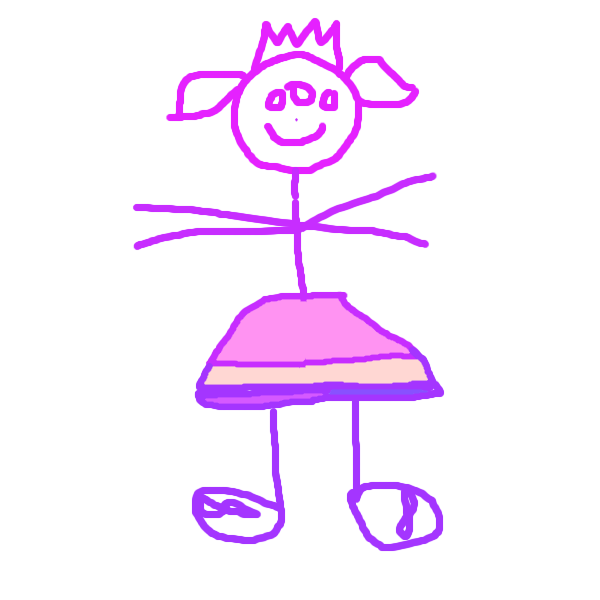
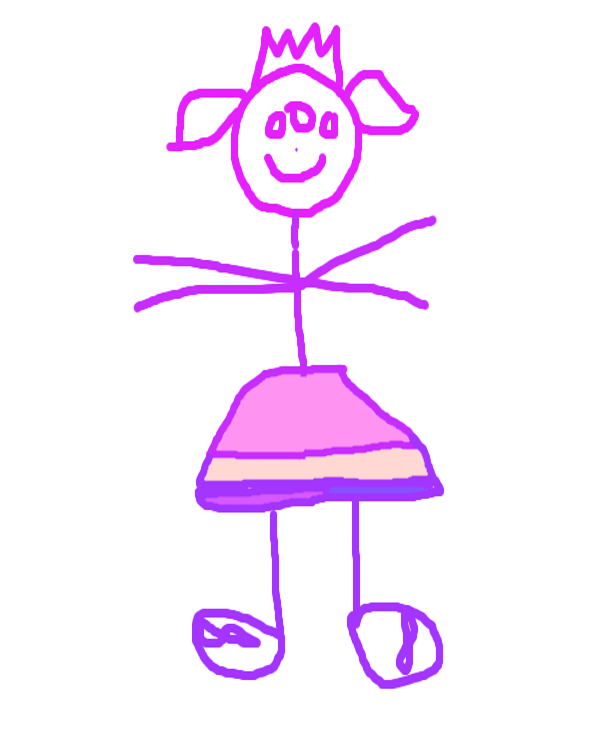
Increase Monster Height

diff --git a/scripts/scripts.js b/scripts/scripts.js
@@ -1,5 +1,5 @@
 const NUMBER_OF_IMAGES = 8;
-const SECTION_HEIGHT = 200;
+const SECTION_HEIGHT = 250;
 let canvas;
 let ctx;
 let images = [];
@@ -86,8 +86,6 @@ function drawMonster(myMonster) {
   ctx.clearRect(0, 0, canvas.width, canvas.height);
   ctx.drawImage(myMonster.head, 0, 0, canvas.width, SECTION_HEIGHT, 0, 0, canvas.width, SECTION_HEIGHT);
   ctx.drawImage(myMonster.torso, 0, SECTION_HEIGHT, canvas.width, SECTION_HEIGHT, 0, SECTION_HEIGHT, canvas.width, SECTION_HEIGHT);
-  ctx.drawImage(myMonster.legs, 0, 400, canvas.width, SECTION_HEIGHT, 0, 400, canvas.width, SECTION_HEIGHT);
+  ctx.drawImage(myMonster.legs, 0, SECTION_HEIGHT * 2, canvas.width, SECTION_HEIGHT, 0, SECTION_HEIGHT * 2, canvas.width, SECTION_HEIGHT);
+  //Reference: drawImage(image, sx, sy, sWidth, sHeight, dx, dy, dWidth, dHeight)
 }
-
-
-

diff --git a/index.html b/index.html
@@ -39,7 +39,7 @@
     </div>
   </nav>
 
-  <canvas id="canvas" width="600" height="600">
+  <canvas id="canvas" width="600" height="750">
     <div>
       <p>Unfortunately HTML Canvas is not supported in this browser. Here's a consolation dragon to make up for it...</p>
       <pre>

diff --git a/styles/styles.css b/styles/styles.css
@@ -19,7 +19,7 @@ canvas#canvas {
   /* border: 1px solid #d3d3d3; */
   max-width: 600px;
   width: 100%;
-  height: 600px;
+  height: 750px;
   margin-left: auto;
   margin-right: auto;
   display: block;
